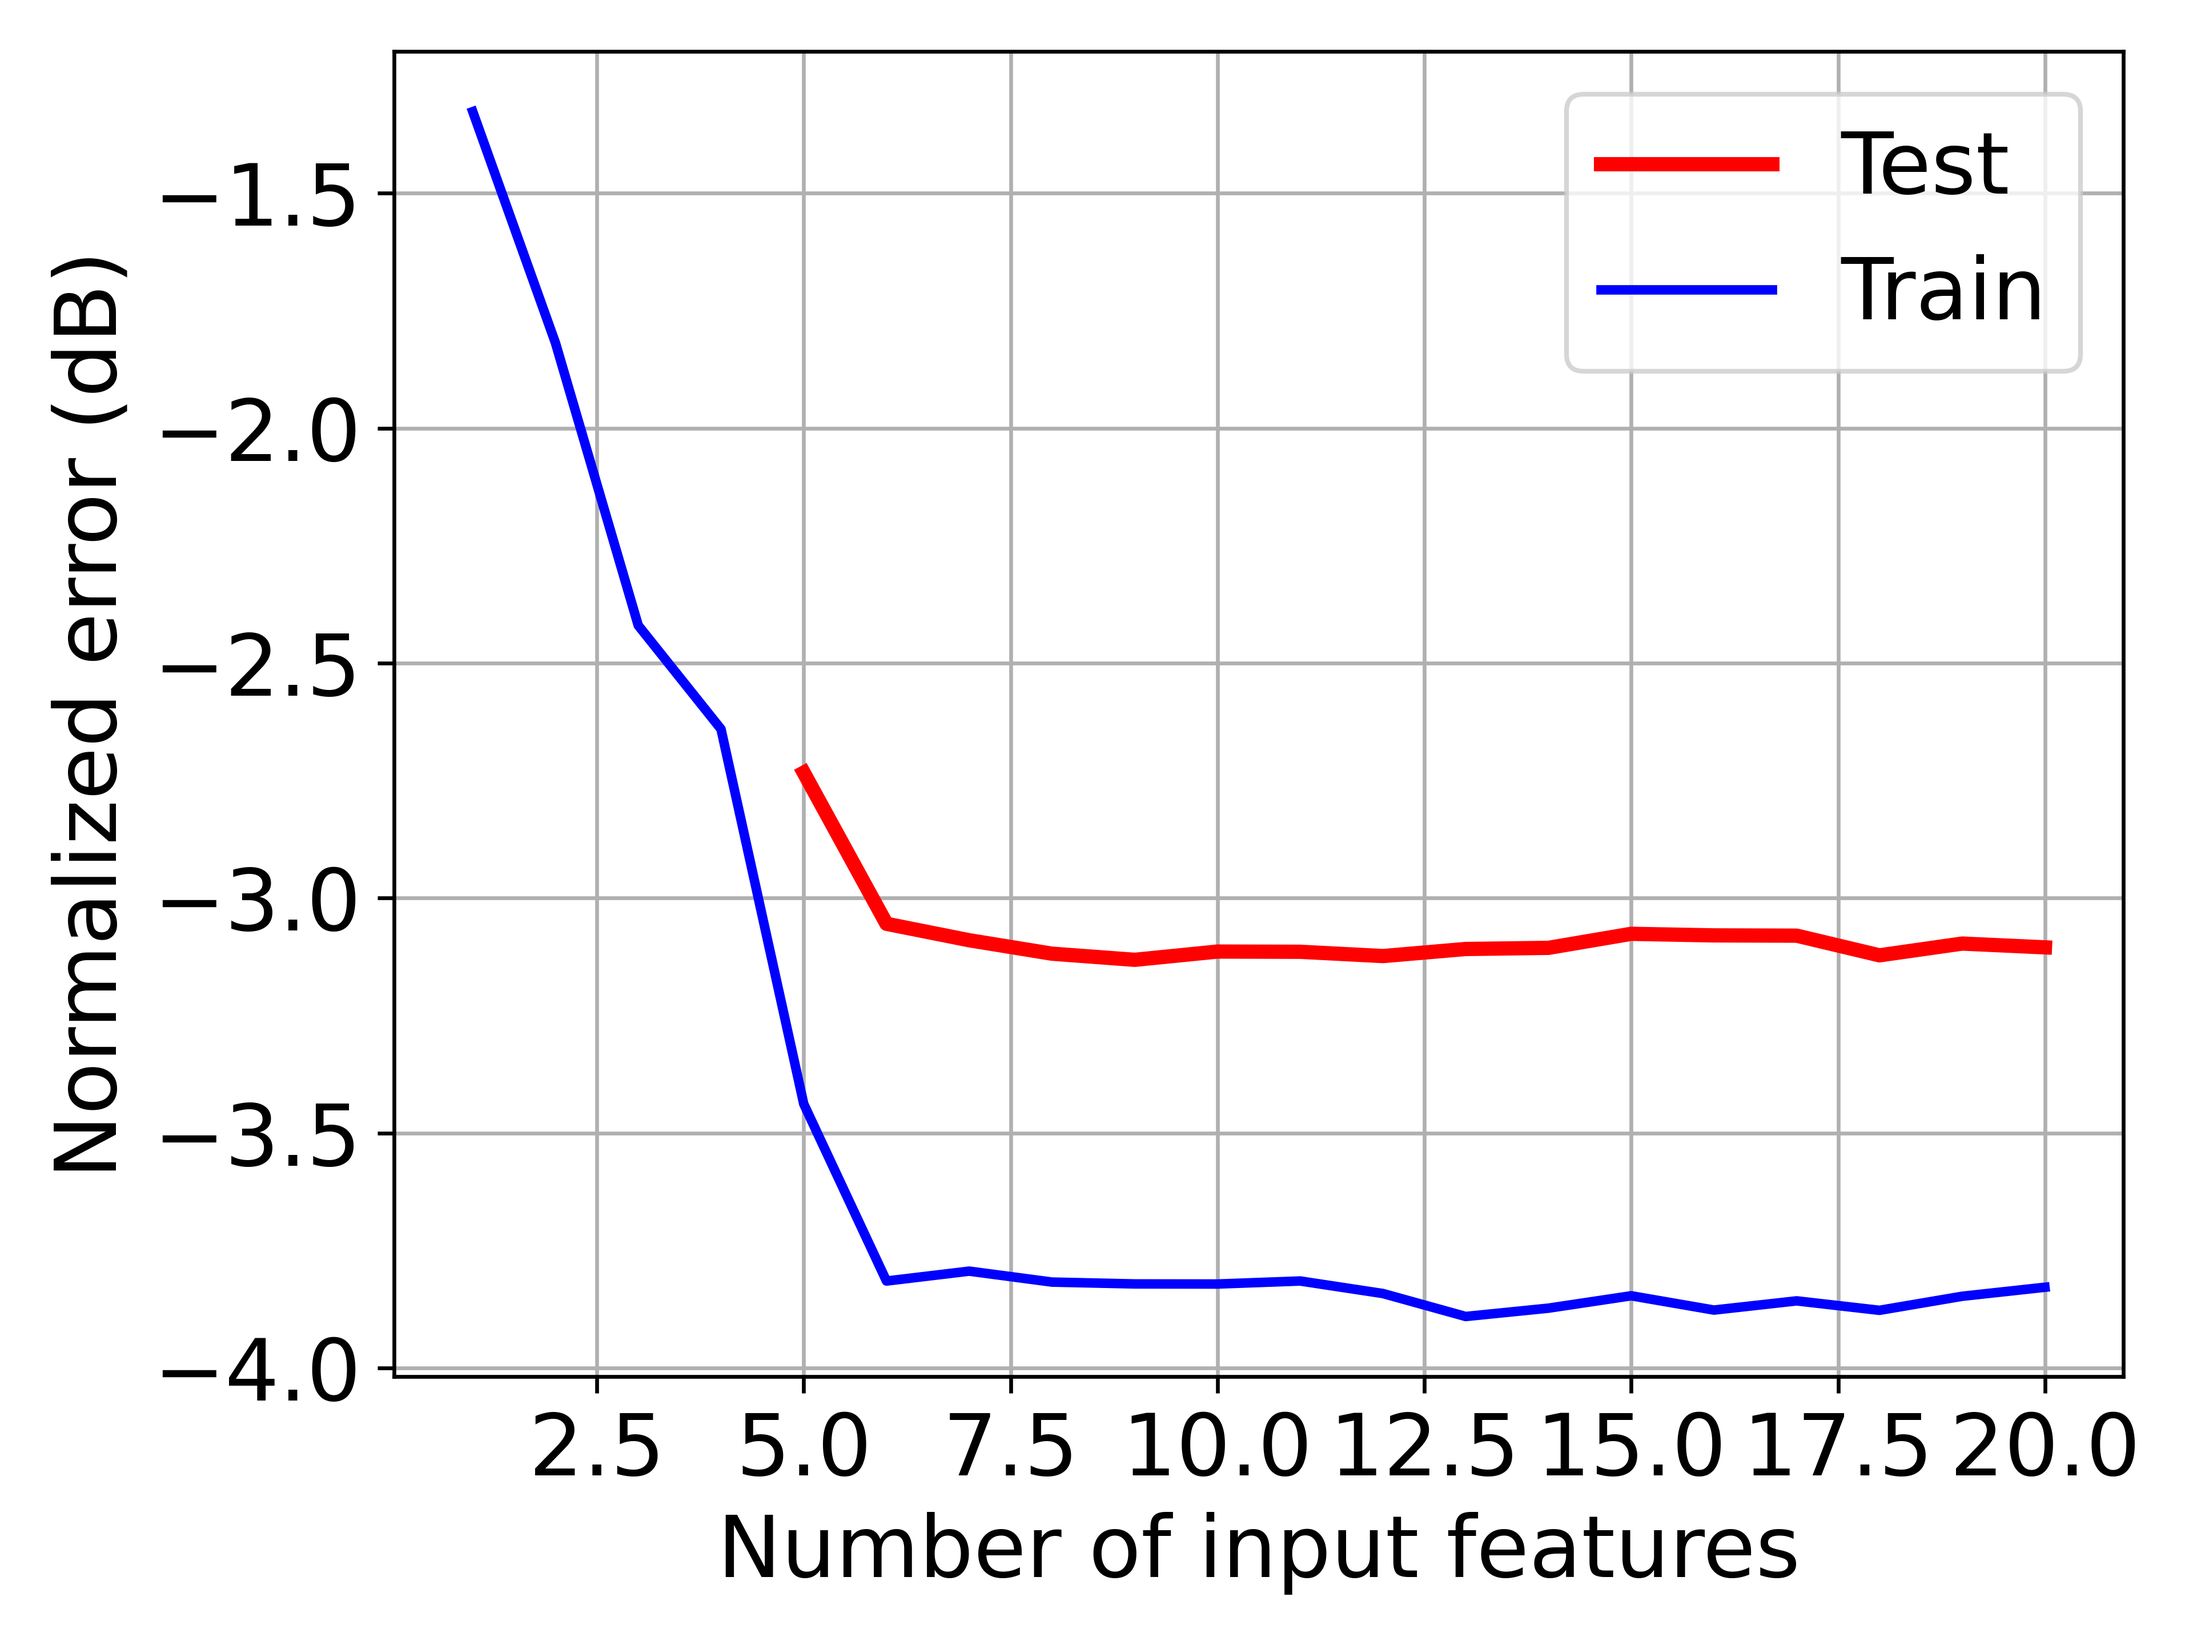
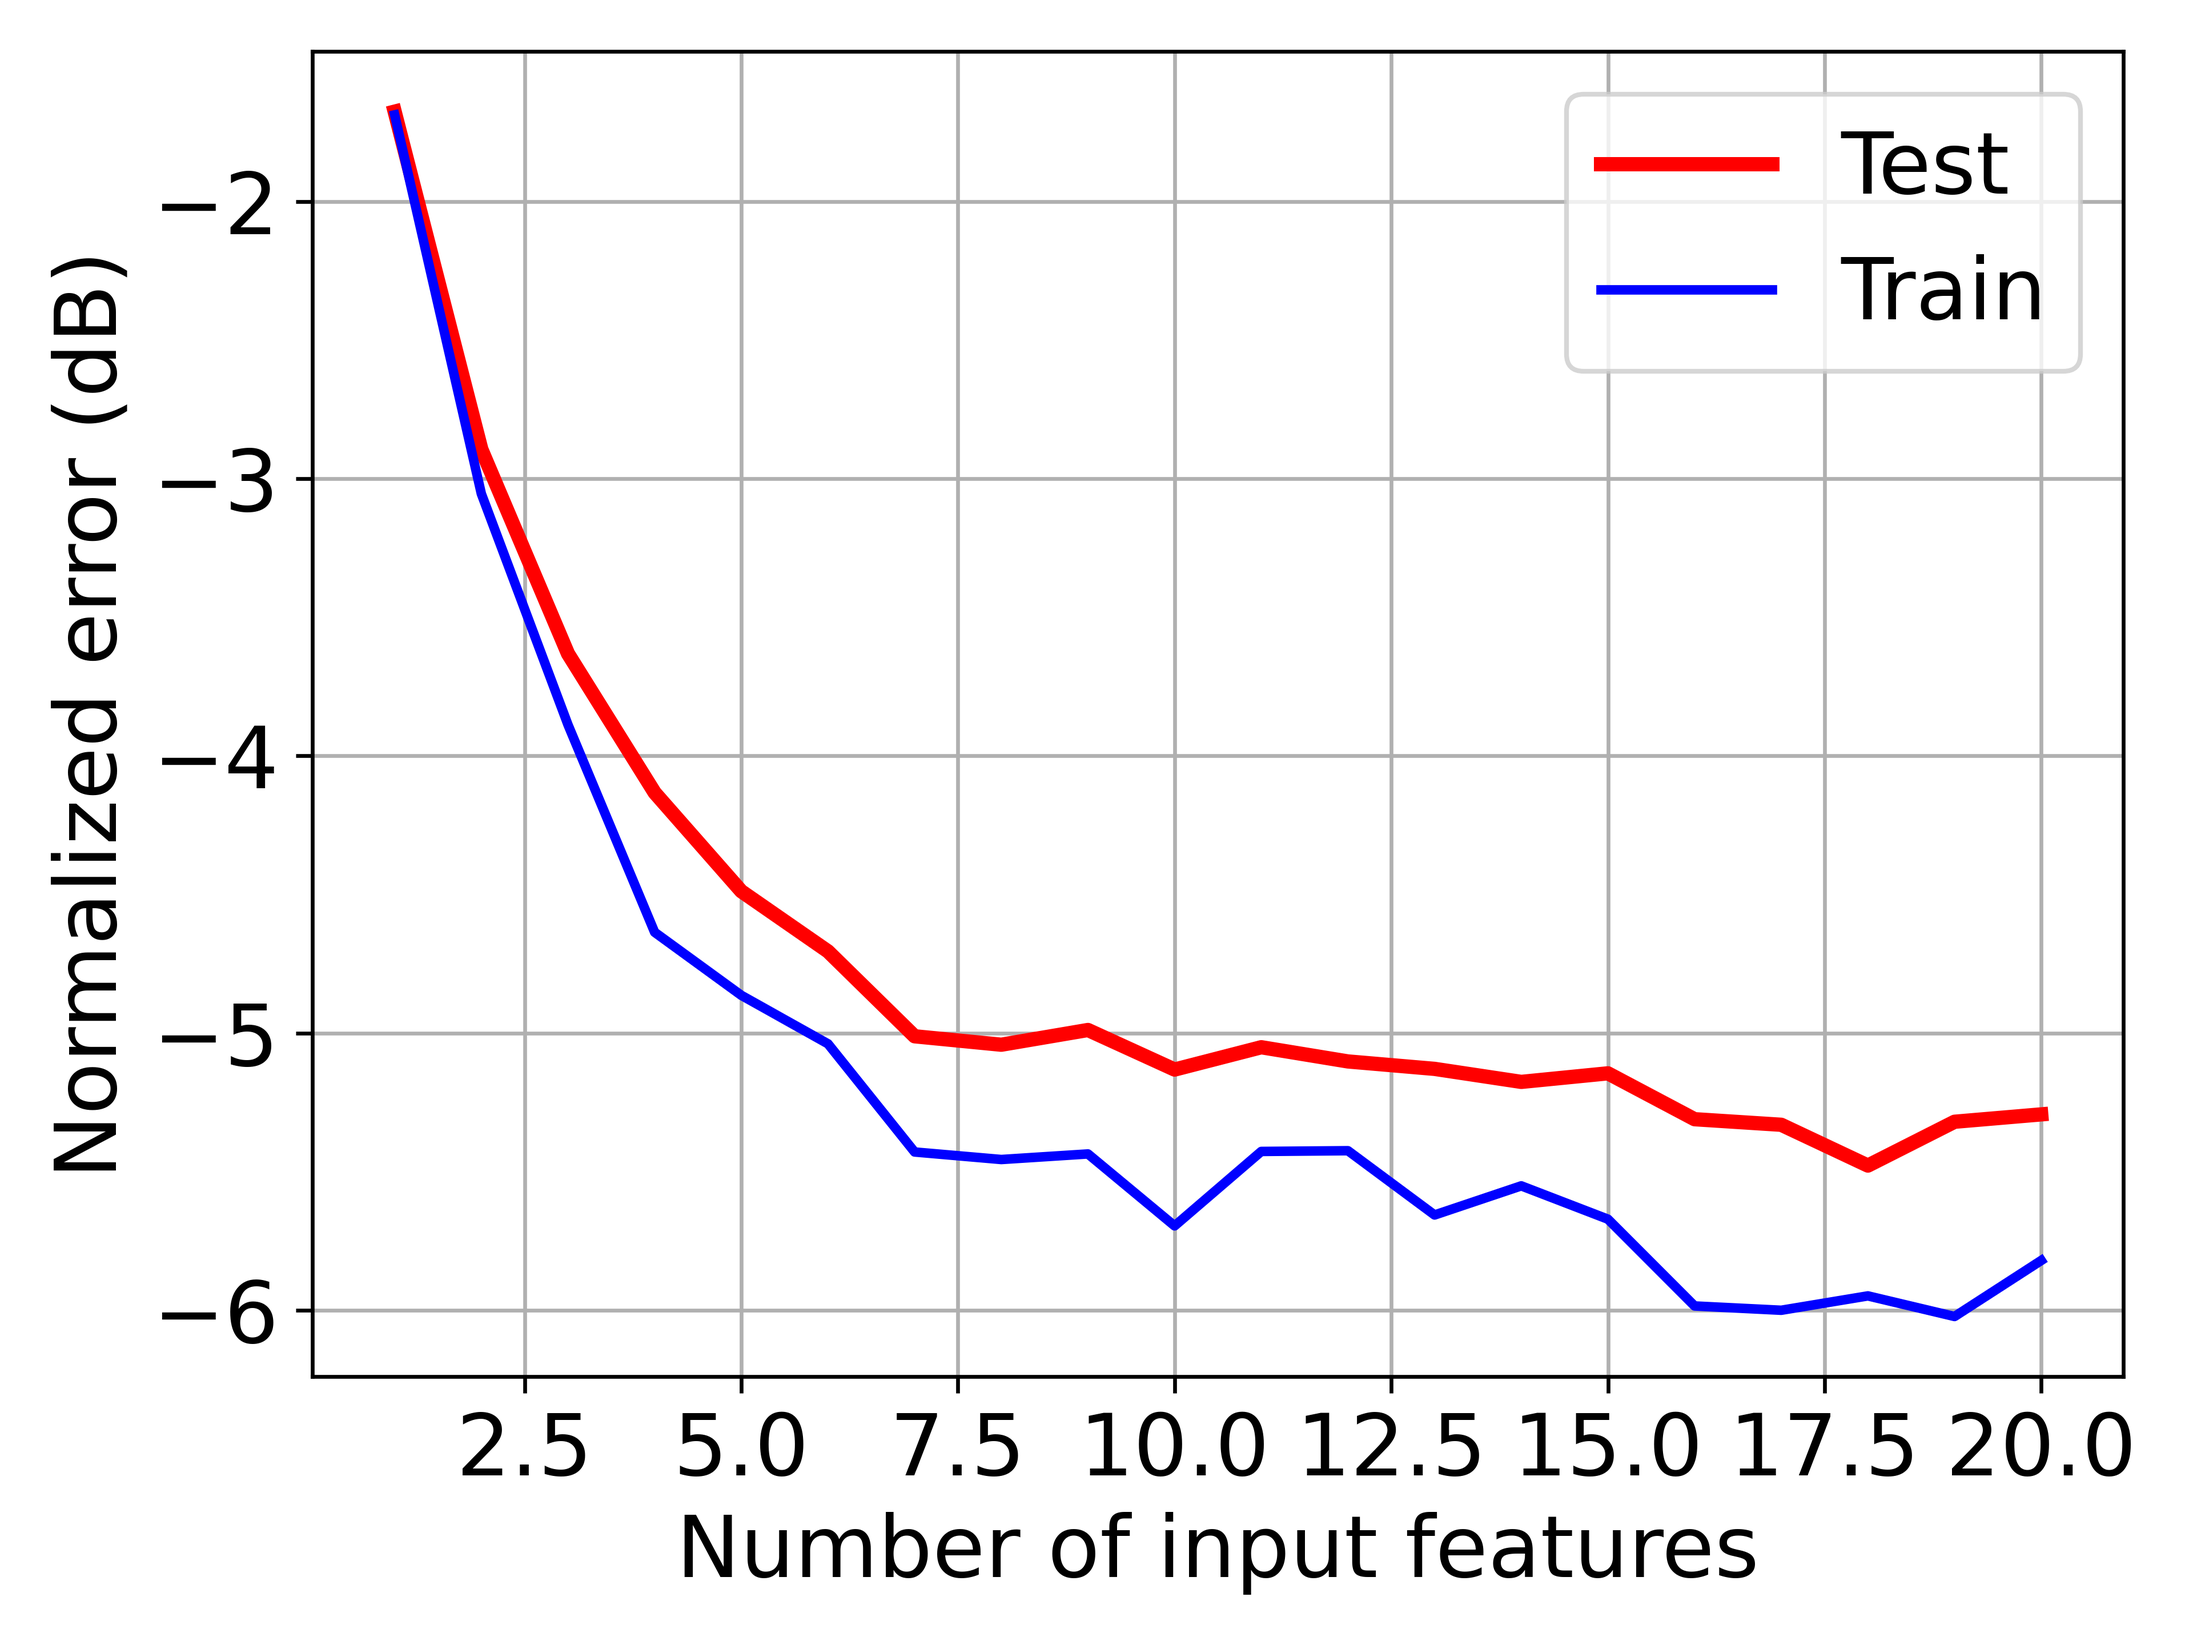
Airfoil

diff --git a/load_dataset.py b/load_dataset.py
@@ -103,6 +103,7 @@ def prepare_cifar10():
     T_test=  cifar10["test_y"].astype(np.float32)
     return X_train, X_test, T_train, T_test
 
+
 def prepare_satimage():
     X_train = loadmat("./mat_files/Satimage.mat")["train_x"].astype(np.float32)
     T_train = loadmat("./mat_files/Satimage.mat")["train_y"].astype(np.float32)
@@ -168,7 +169,6 @@ def prepare_Boston():
 
     X, T = load_boston(return_X_y=True)
     X_train, X_test, T_train, T_test = train_test_split(X, T, test_size=0.33, random_state=21)
-    S = [0, 1, 2, 3, 4, 5, 6, 7, 8, 9, 10, 11, 12]
     fExtra=100
     X_train = np.concatenate((X_train, 10*np.random.rand(X_train.shape[0],fExtra)+10), axis=1)
     X_test = np.concatenate((X_test, 10*np.random.rand(X_test.shape[0],fExtra)+10), axis=1)
@@ -179,3 +179,19 @@ def prepare_Boston():
     X_test = (X_test - X_test.mean(axis=0)) / np.std(X_test, axis=0)
 
     return X_train.T, X_test.T, T_train.T, T_test.T
+
+
+def prepare_airfoil():
+    X_train = loadmat("./mat_files/Airfoil.mat")["X_train"].astype(np.float32)
+    T_train = loadmat("./mat_files/Airfoil.mat")["T_train"].astype(np.float32)
+    X_test = loadmat("./mat_files/Airfoil.mat")["X_test"].astype(np.float32)
+    T_test= loadmat("./mat_files/Airfoil.mat")["T_test"].astype(np.float32)
+
+    X_train = (X_train - X_train.mean(axis=0)) / np.std(X_train, axis=0)
+    X_test = (X_test - X_test.mean(axis=0)) / np.std(X_test, axis=0)
+
+    fExtra=500
+    X_train = np.concatenate((X_train, np.random.randn(X_train.shape[0],fExtra)), axis=1)
+    X_test = np.concatenate((X_test, np.random.randn(X_test.shape[0],fExtra)), axis=1)
+    
+    return X_train, X_test, T_train,  T_test

diff --git a/CNN.py b/CNN.py
@@ -1,6 +1,6 @@
-from re import VERBOSE
 from MyFunctions import *
 import tensorflow as tf
+import numpy as np
 from tensorflow.keras import layers
 
 
@@ -28,19 +28,24 @@ def my_CNN( X_tr, X_ts, T_train, T_test):
     num_classes = 10
     input_shape = (28, 28, 1)
 
-    X_tr = tf.reshape(X_tr.T, (X_tr.shape[1],28,28,1))
-    X_ts = tf.reshape(X_ts.T, (X_ts.shape[1],28,28,1))
+    X_tr = X_tr.T
+    X_ts = X_ts.T
+    X_tr = X_tr.reshape(X_tr.shape[0], 28, 28)
+    X_ts = X_ts.reshape(X_ts.shape[0], 28, 28)
+
+    X_tr = np.expand_dims(X_tr, -1)
+    X_ts = np.expand_dims(X_ts, -1)
 
     model = CNNModel(num_classes, input_shape).create_cnn_model()
     # model.summary()
             
-    batch_size = 128
-    epochs = 3
+    batch_size = 32
+    epochs = 10
 
     model.compile(loss="categorical_crossentropy", optimizer="adam", metrics=["accuracy"])
     model.fit(X_tr, tf.transpose(T_train), epochs=epochs, batch_size=batch_size, verbose=0)
 
-    t_hat = model.predict(X_tr).reshape(T_train.shape)
-    t_hat_test = model.predict(X_ts).reshape(T_test.shape)
+    t_hat = model.predict(X_tr).T
+    t_hat_test = model.predict(X_ts).T
 
     return compute_nme(t_hat,T_train), compute_nme(t_hat_test,T_test), compute_mse(t_hat,T_train), compute_mse(t_hat_test,T_test), calculate_accuracy(t_hat,T_train), calculate_accuracy(t_hat_test,T_test)

diff --git a/NMP.py b/NMP.py
@@ -214,7 +214,7 @@ def Err_vs_feat_window(X_train, X_test, T_train, T_test, args):
         print("cols: "+str(sorted_ind_col))
         print("Test NME:" + str(test_nme_sorted))
 
-        if len(test_nme_sorted) >= 0.4 * R_num * C_num:
+        if len(test_nme_sorted) >= 1 * R_num * C_num:
             break
 
 
